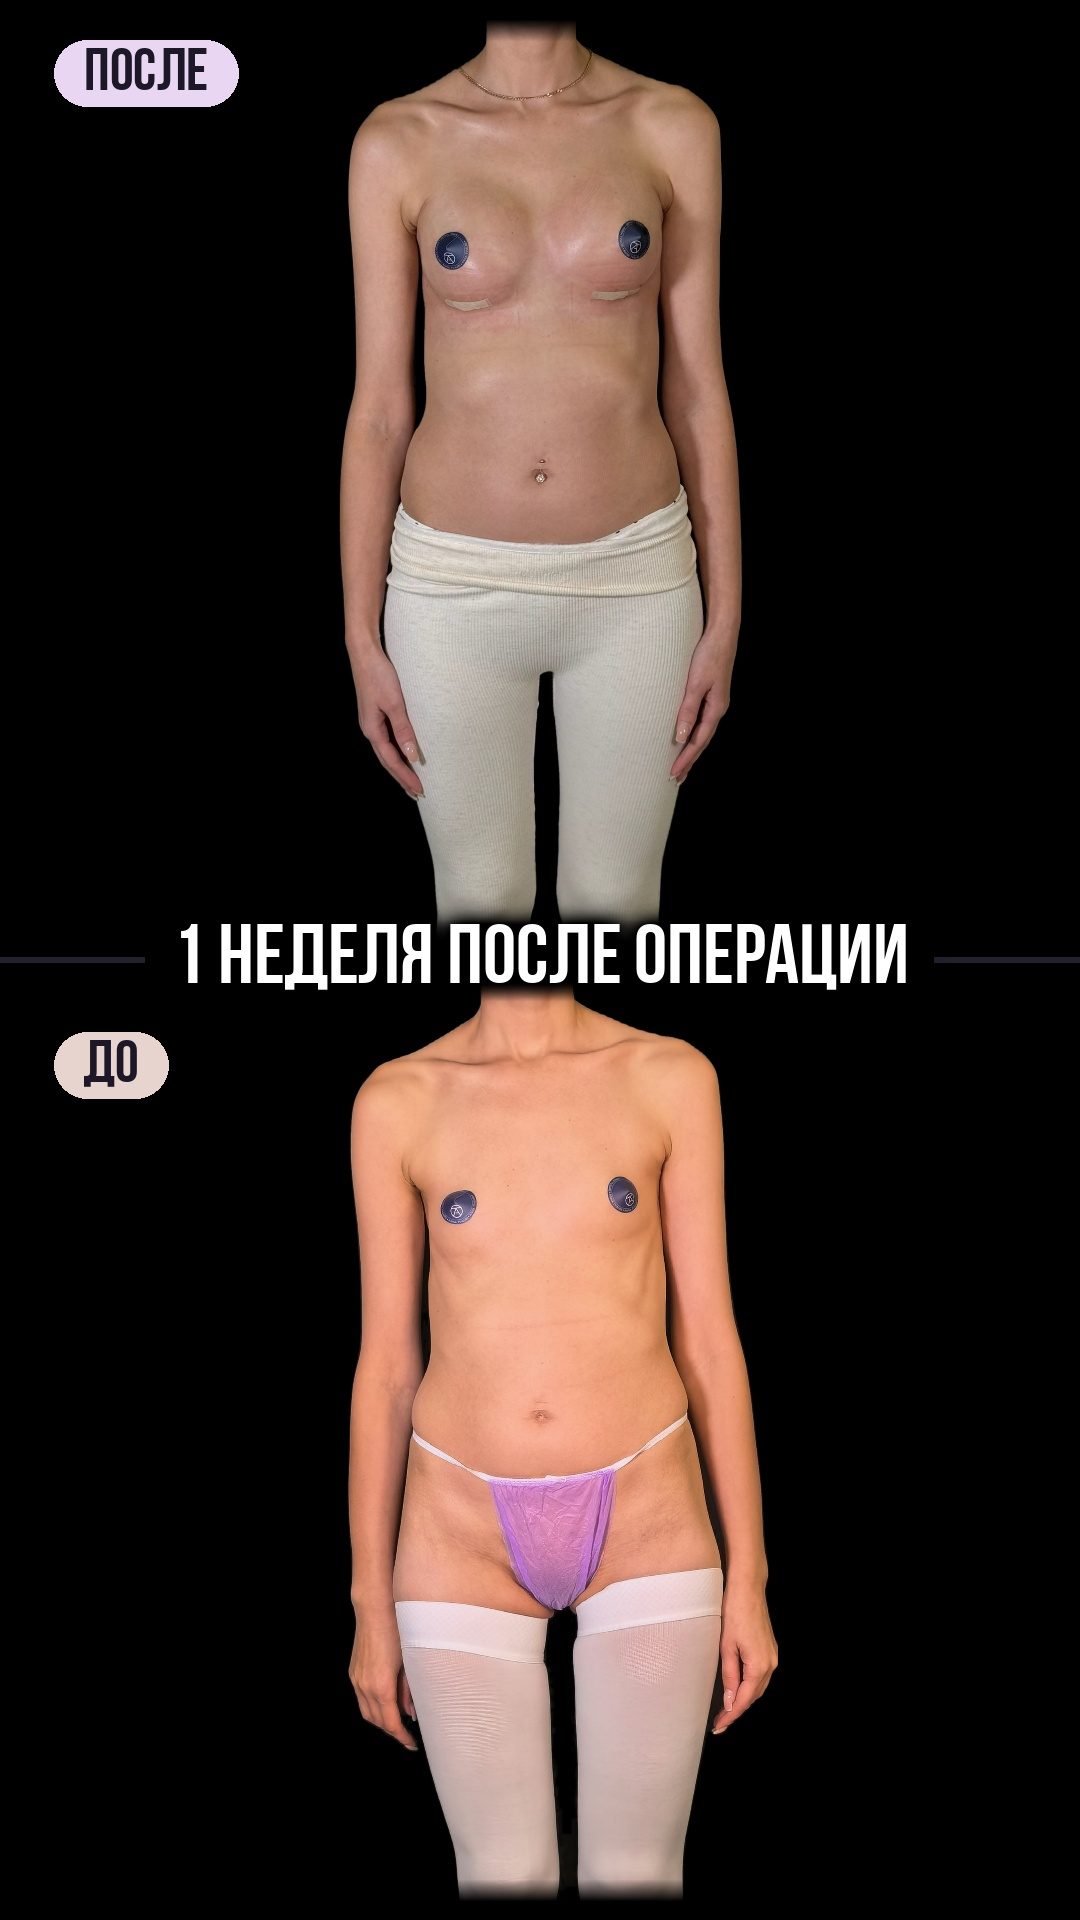
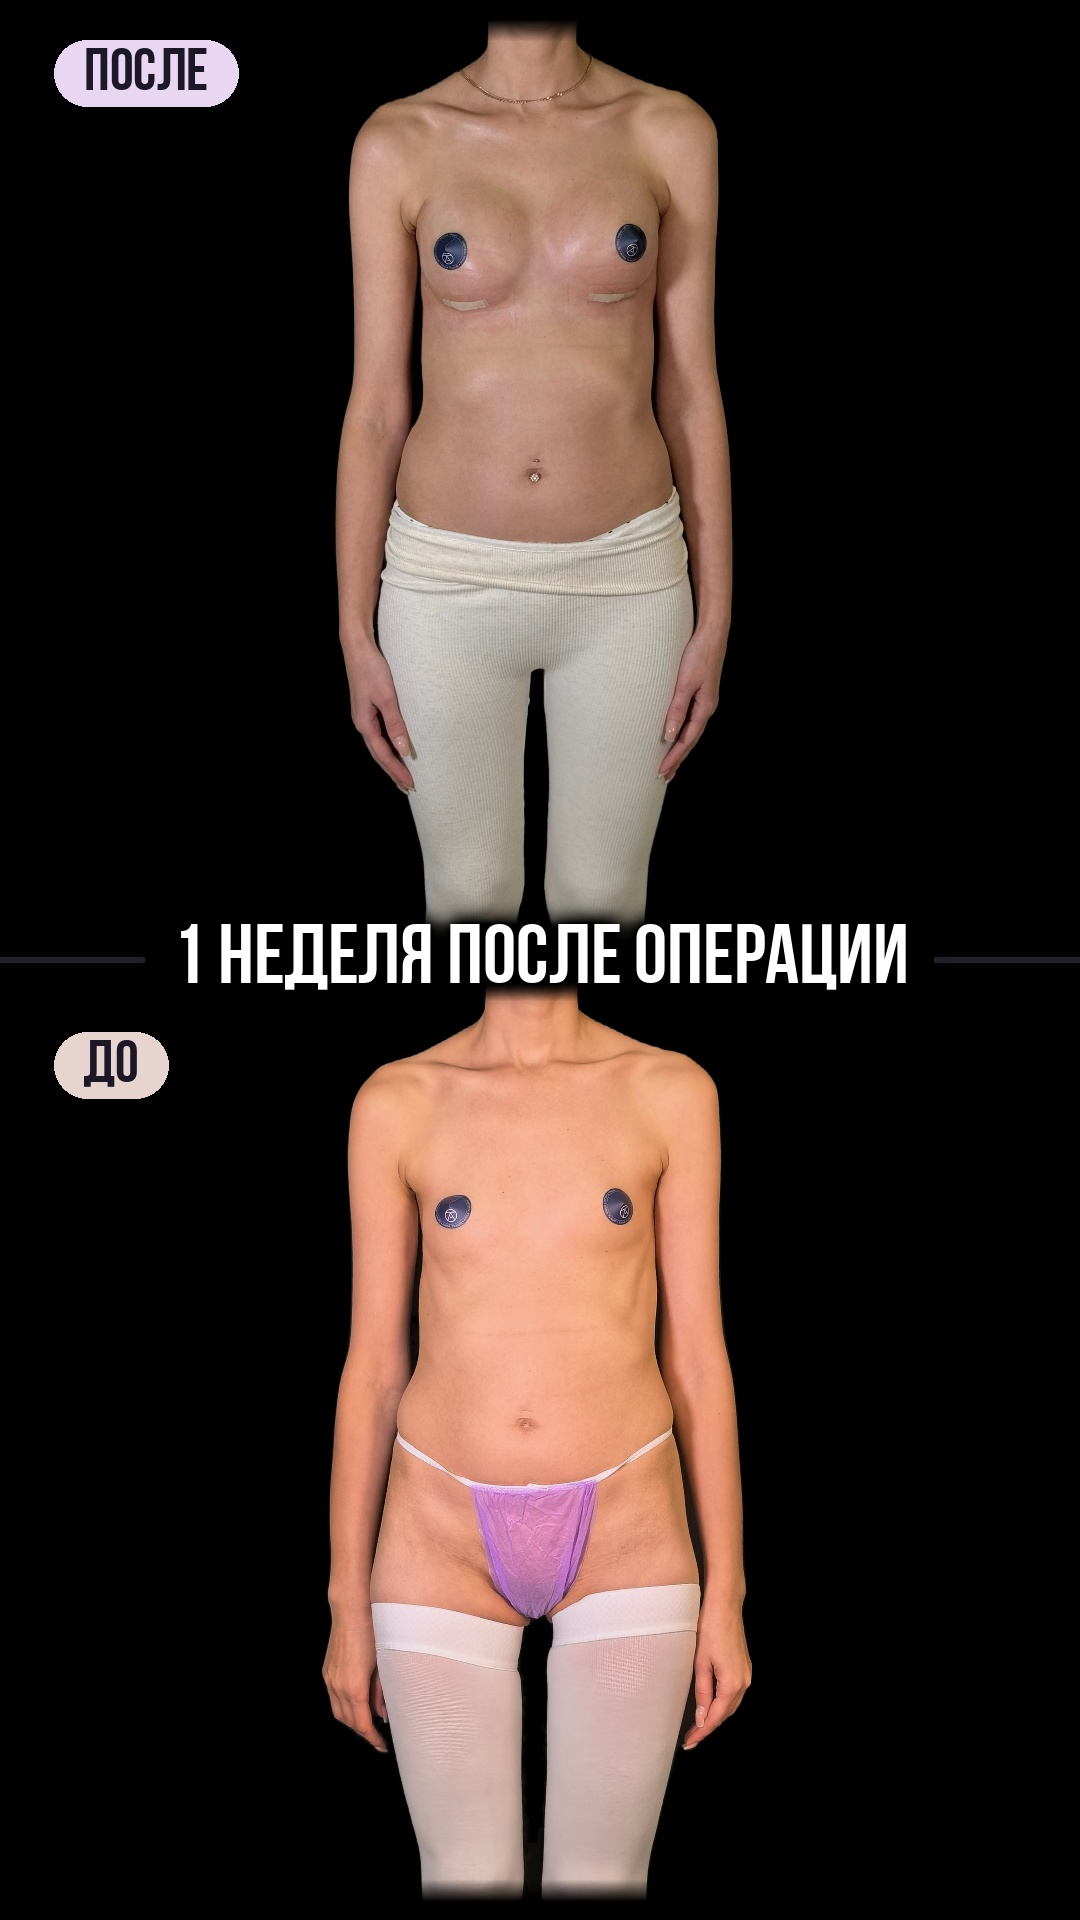
Week-1 collages: shoulder points taken from the body mask; ДО front shoulders levelled, ПОСЛЕ 3/4 set upright
Claude-Session: https://claude.ai/code/session_01DLYcpYAewhkUMdYYshxueL

diff --git a/tools/collage_week1.py b/tools/collage_week1.py
@@ -22,12 +22,15 @@ W, H, HALF = 1080, 1920, 960
 #               scale taken from the front pair of the same session.
 ABOVE, BELOW = 200, 2100          # ДО source px kept above / below the shoulder line: under the chin to the knees
 S0 = 900 / (ABOVE + BELOW)        # scale of the ДО photos
-SH = {"b_front": ((115, 300), (1005, 300)), "a_front": ((290, 340), (1080, 335)),
-      "b_34": ((130, 320), (870, 420)), "a_34": ((370, 320), (1030, 375))}
+# shoulder corners found on the person mask (extreme point of the upper silhouette towards up-left /
+# up-right, below the chin) — checked by eye on each photo
+SH = {"b_front": ((140, 298), (974, 260)), "a_front": ((311, 338), (1060, 322)),
+      "b_34": ((207, 290), (863, 396)), "a_34": ((422, 292), (1001, 330))}
 SIDE = {"b_side": ((480, 300), (470, 2400)), "a_side": ((700, 320), (660, 2300))}
 # 3/4: the shoulder line is foreshortened by the turn, so levelling it tilts the legs; instead the body
 # axis (jugular notch -> between the knees) is made vertical, and the shoulder width still sets the scale
-AXIS = {"b_34": ((610, 330), (620, 2450)), "a_34": ((620, 330), (746, 2060))}
+# (ПОСЛЕ 3/4 stands with a lean: levelling its shoulders puts it upright, so it uses the shoulder rule; checked by eye)
+AXIS = {"b_34": ((610, 330), (620, 2450))}
 SIDE_SCALE = {"b_side": 1.0, "a_side": 890 / 790}   # same camera session as the front pair
 SESSION = new_session("u2net_human_seg")   # keeps the whole silhouette in profile (plain u2net lost legs and back)
 
